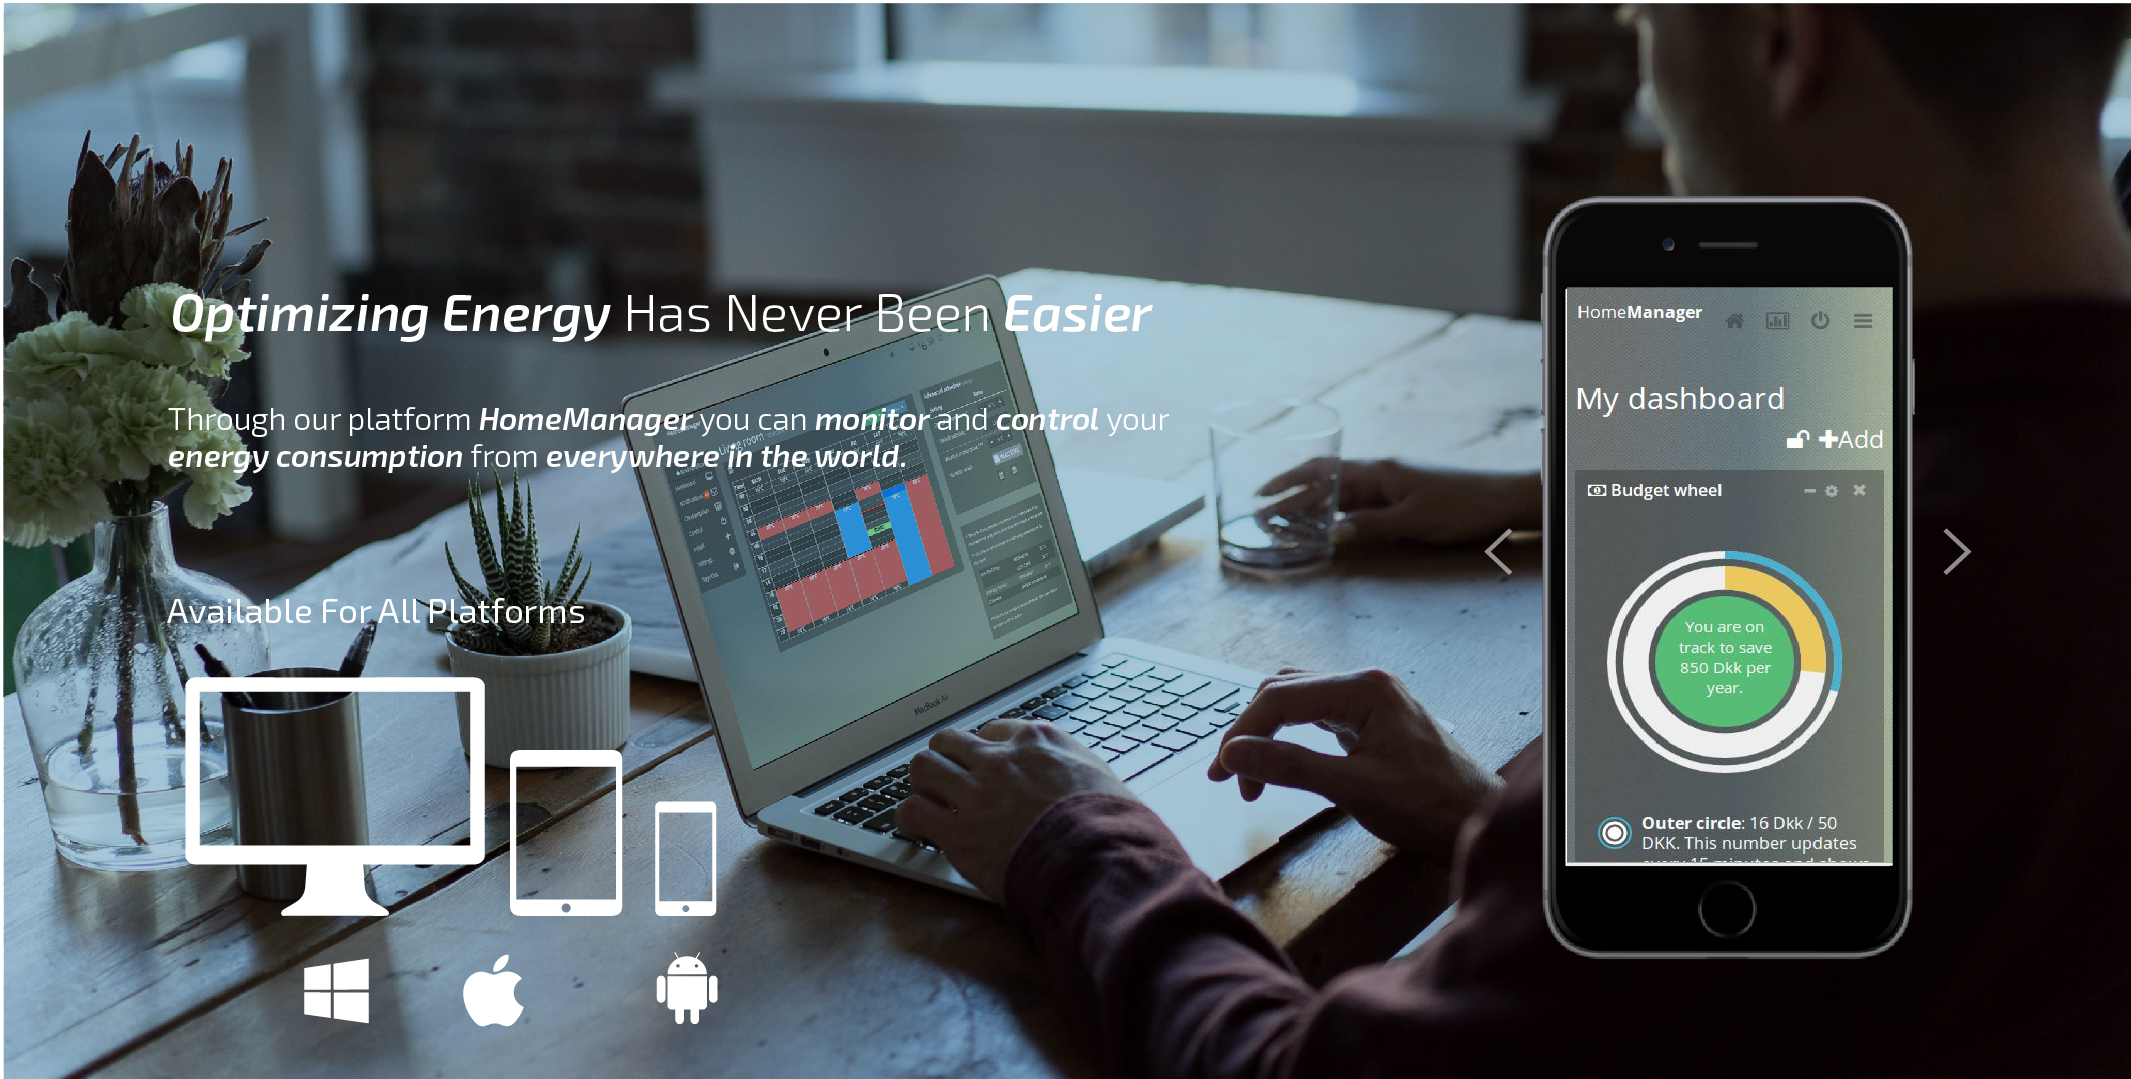
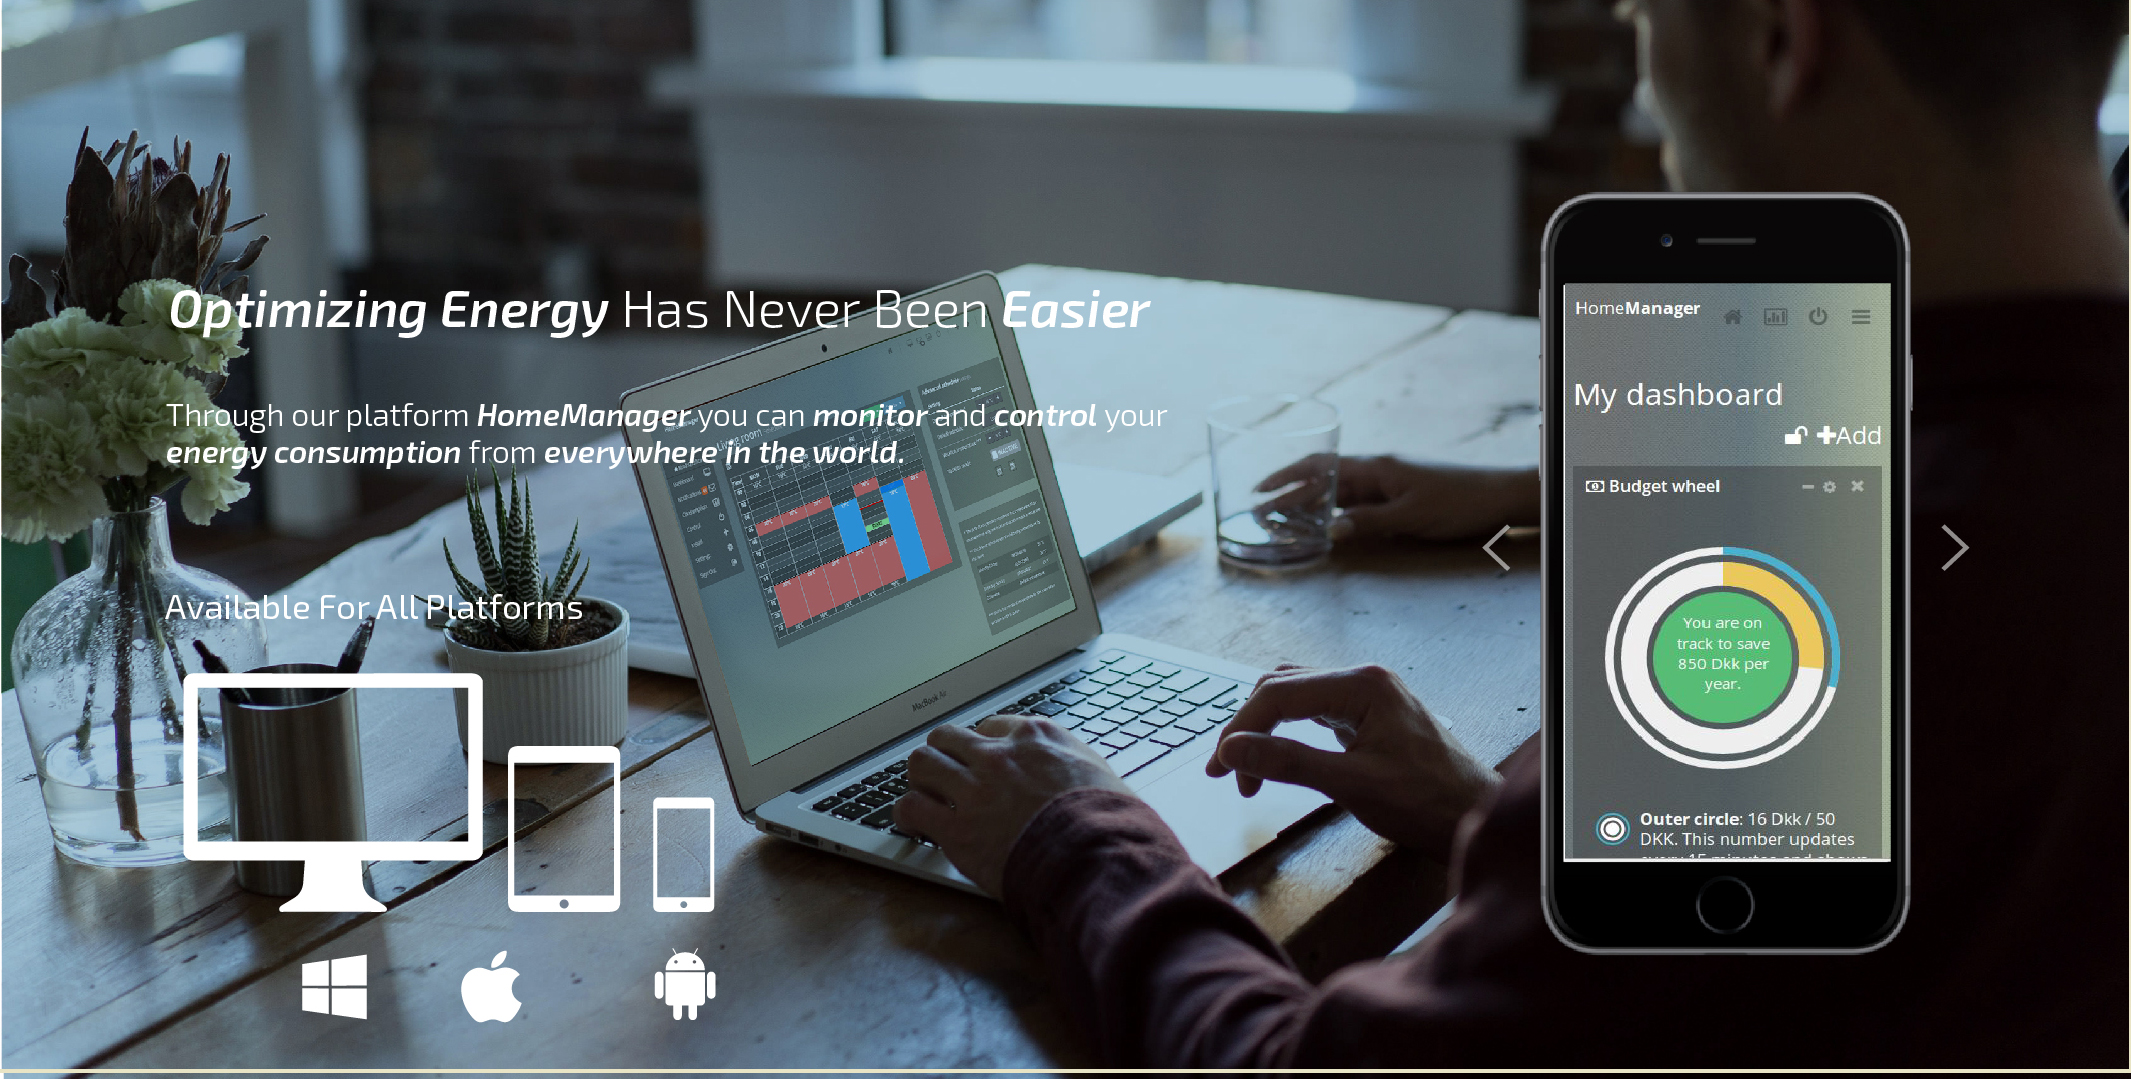
updated slider with mobiles

diff --git a/index.html b/index.html
@@ -34,26 +34,49 @@ save energy and create a comfortable and safe environment for you and your famil
       <div class="sliderMobiles">
       	<div class="fade" style="opacity: 1">
       		<div class="fade_element">
-      			<img src="images/slider/slider1.jpg" alt="NorthQ">
-      			<button type="button" class="slick-prev">Previous</button>
-      			<button type="button" class="slick-next">Next</button>
+      			<div class="sliderMobilesText">
+	      			<div class="sliderMobileImage">
+	  					<img class="mobileImage" src="images/slider/mobile1.png" alt="NorthQ">
+	      			</div>
+      				<h2>Make Your Heating As Flexible As You Are</h2>
+      				<h4>Something else.</h4>
+      			</div>
       		</div>
       		<div class="fade_element">
-      			<img src="images/slider/slider2.jpg" alt="NorthQ">
-      			<button type="button" class="slick-prev">Previous</button>
-      			<button type="button" class="slick-next">Next</button></div>
+      			<div class="sliderMobilesText">
+	      			<div class="sliderMobileImage">
+	  					<img class="mobileImage" src="images/slider/mobile2.png" alt="NorthQ">
+	      			</div>
+      				<h2>Optimizing Energy Has never Been Easier</h2>
+      				<h4>Something else.</h4>
+      			</div>
+      		</div>
       		<div class="fade_element">
-      			<img src="images/slider/slider3.jpg" alt="NorthQ">
-      			<button type="button" class="slick-prev">Previous</button>
-      			<button type="button" class="slick-next">Next</button></div>
+      			<div class="sliderMobilesText">
+	      			<div class="sliderMobileImage">
+	  					<img class="mobileImage" src="images/slider/mobile3.png" alt="NorthQ">
+	      			</div>
+      				<h2>Monitor Your Electricity And Gas Consumption</h2>
+      				<h4>Something else.</h4>
+      			</div>
+      		</div>
       		<div class="fade_element">
-      			<img src="images/slider/slider4.jpg" alt="NorthQ">
-      			<button type="button" class="slick-prev">Previous</button>
-      			<button type="button" class="slick-next">Next</button></div>
+      			<div class="sliderMobilesText">
+	      			<div class="sliderMobileImage">
+	  					<img class="mobileImage" src="images/slider/mobile4.png" alt="NorthQ">
+	      			</div>
+      				<h2>Make All Of Your Appliances Smarter</h2>
+      				<h4>Something else.</h4>
+      			</div>
+      		</div>
       		<div class="fade_element">
-      			<img src="images/slider/slider5.jpg" alt="NorthQ">
-      			<button type="button" class="slick-prev">Previous</button>
-      			<button type="button" class="slick-next">Next</button>
+      			<div class="sliderMobilesText">
+	      			<div class="sliderMobileImage">
+	  					<img class="mobileImage" src="images/slider/mobile5.png" alt="NorthQ">
+	      			</div>
+      				<h2>Control Your Energy Expenses Easily</h2>
+      				<h4>Something else.</h4>
+      			</div>
   			</div>
 		</div>
       </div>
@@ -145,6 +168,7 @@ save energy and create a comfortable and safe environment for you and your famil
 				infinite: true,
 				speed: 500,
 				fade: true,
+				arrows: true,
 				pauseOnHover: false
 			});
 			$('.fade_element').addClass('animated fadeIn');

diff --git a/css/style.css b/css/style.css
@@ -5,6 +5,7 @@ html, body{
 	font-family: 'Exo', sans-serif;
     font-weight: 400;
     font-size: 12px;
+    overflow-x: hidden;
 }
 h1{
 	font-size: 3.16em;
@@ -70,6 +71,7 @@ h5{
 	margin: 0 auto;
 	
 }
+/* Icons Section */
 .iconSection{
 	background-image: url("../images/iconsback.jpg");
 	background-repeat: no-repeat;
@@ -98,13 +100,20 @@ h5{
     line-height:150%;
 
 }
-/* SLider mobiles */
+/* Slider mobiles */
 .sliderMobiles {
 	height: 100vh;
+	background-image: url('../images/Slider 1.jpg');
+	background-repeat: no-repeat;
+	background-size: auto 100%;
+	background-position: center top;
+	position: relative;
+	overflow: hidden;
 }
 .sliderMobilesText {
 	padding-top: 288px;
 	padding-left: 165px;
+	color: #fff;
 }
 .fade {
 	opacity: 1;
@@ -113,6 +122,31 @@ h5{
 	width: 100%;
 	height: auto;
 }
+.fade_element {
+	height: 100vh !important;
+}
+.slick-prev {
+	left: initial !important;
+	right: 375px !important;
+	top: 350px !important;
+	z-index: 999;
+}
+.slick-next {
+	right: 165px !important;
+	top: 350px !important;
+}
+.sliderMobileImage {
+	height: 45vh;
+	width: auto;
+	float: right;
+	margin-right: 200px;
+	margin-top: -100px;
+	padding-left: 50px;
+}
+img.mobileImage {
+	width: auto;
+	height: 100%;
+}
 /* Save section */
 .saveSection{
 	padding-top: 2em;
@@ -120,7 +154,7 @@ h5{
     padding-right:20px;
 	text-align: center;
 	background-color: #fff;
-	width: 100vw;
+	width: 100%;
 	height: auto;
 	font-size: 2em;
     line-height:200%;
